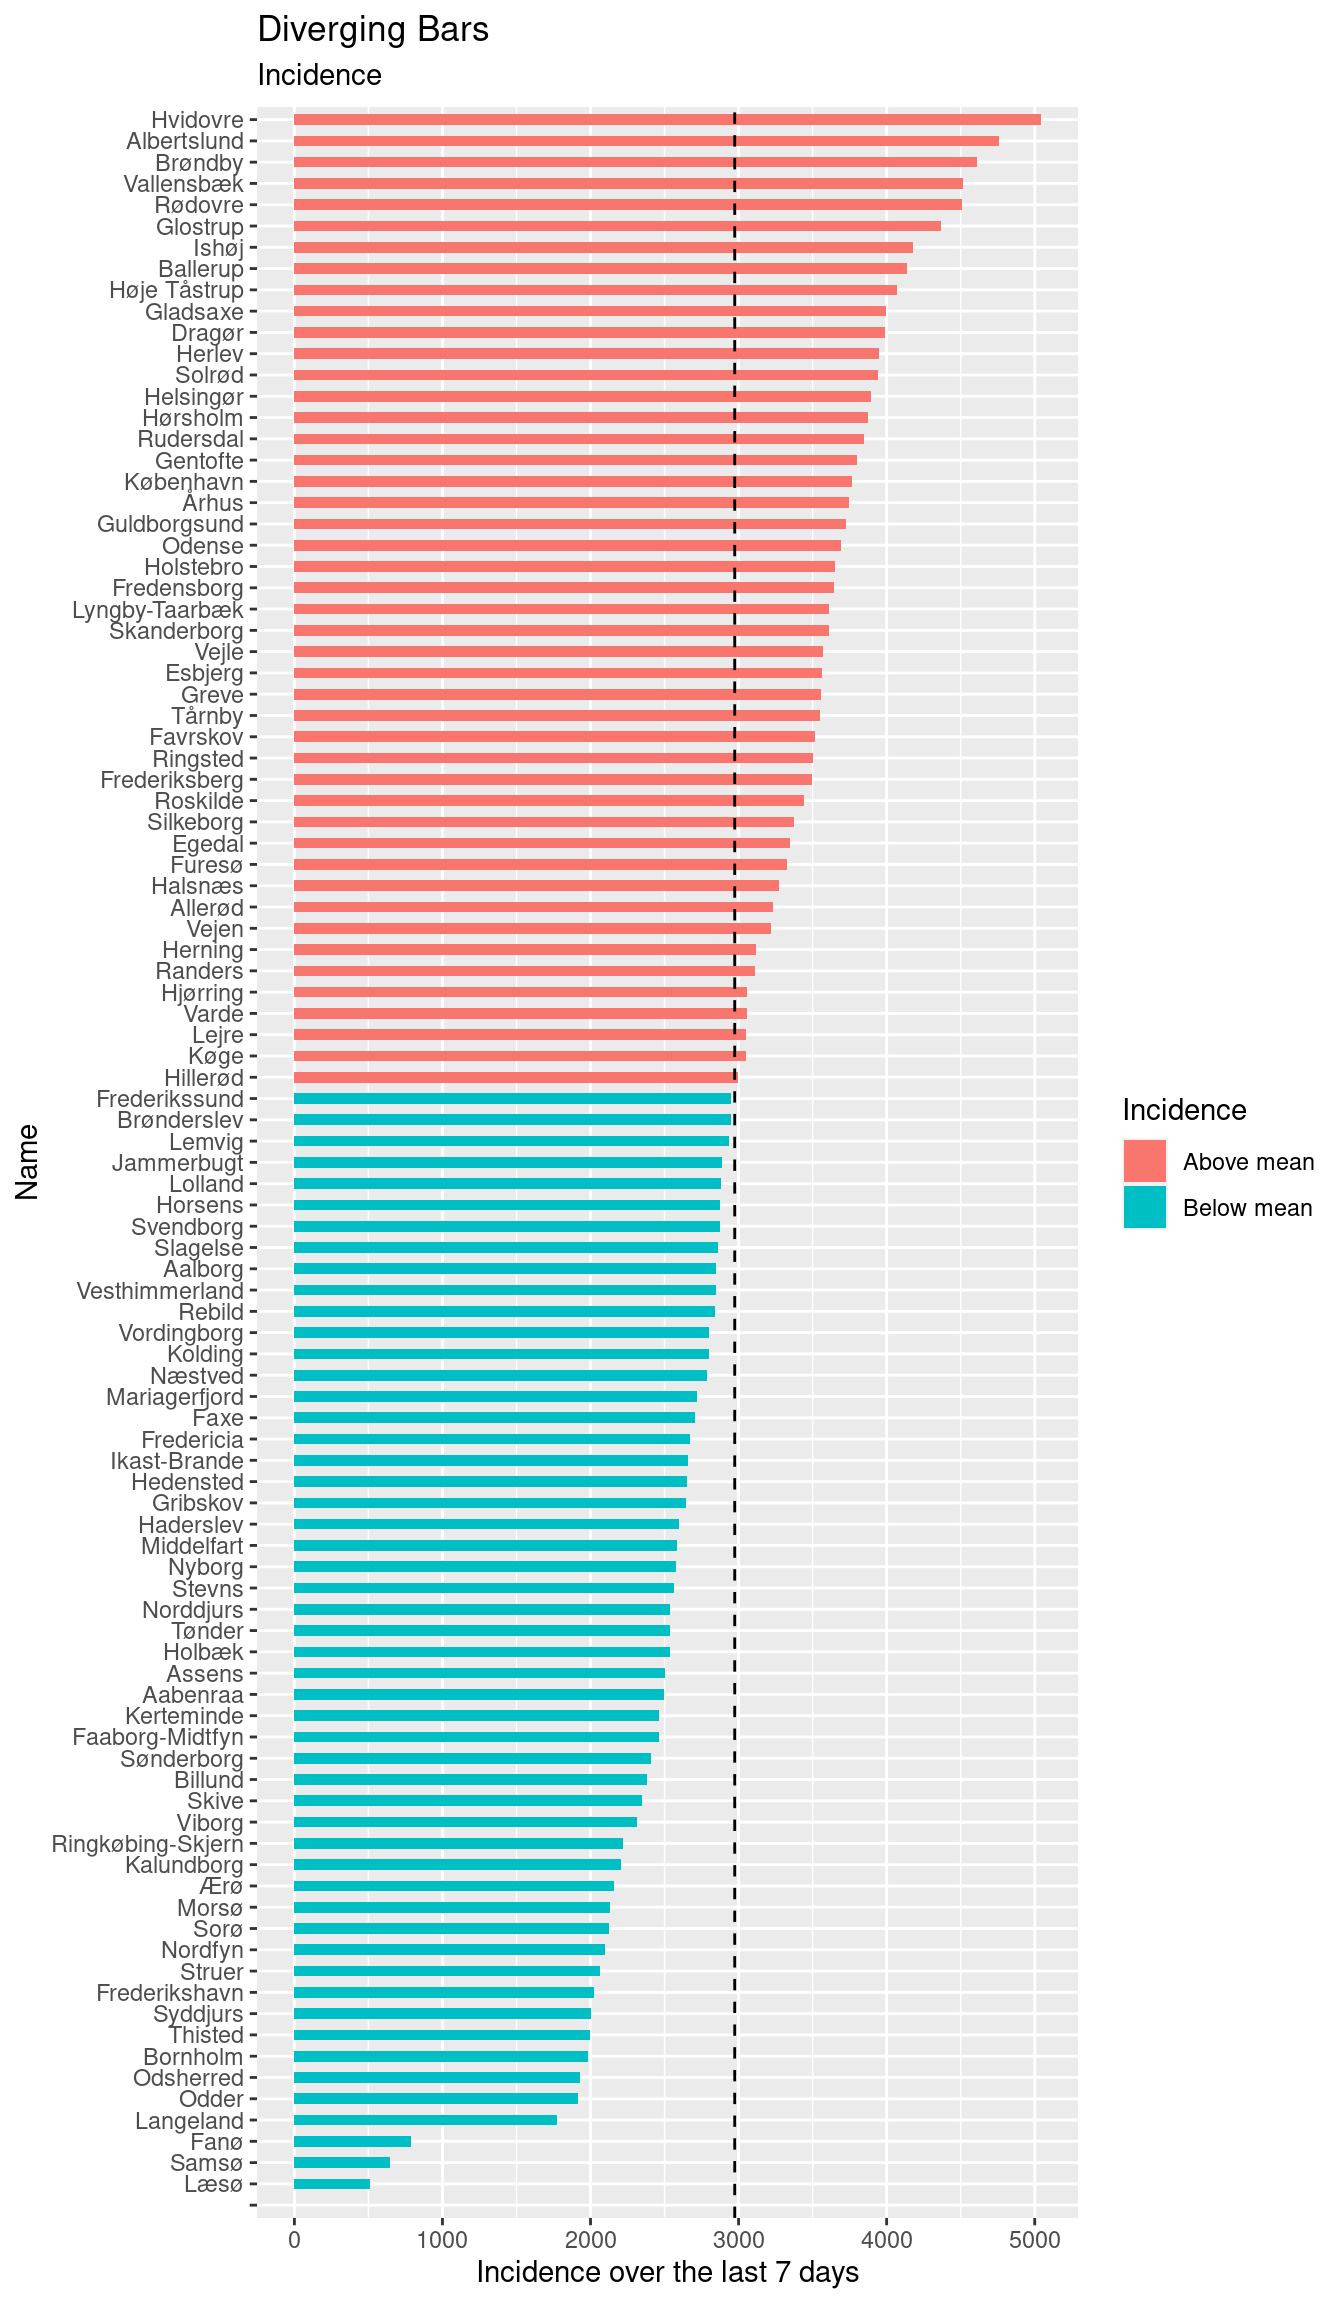
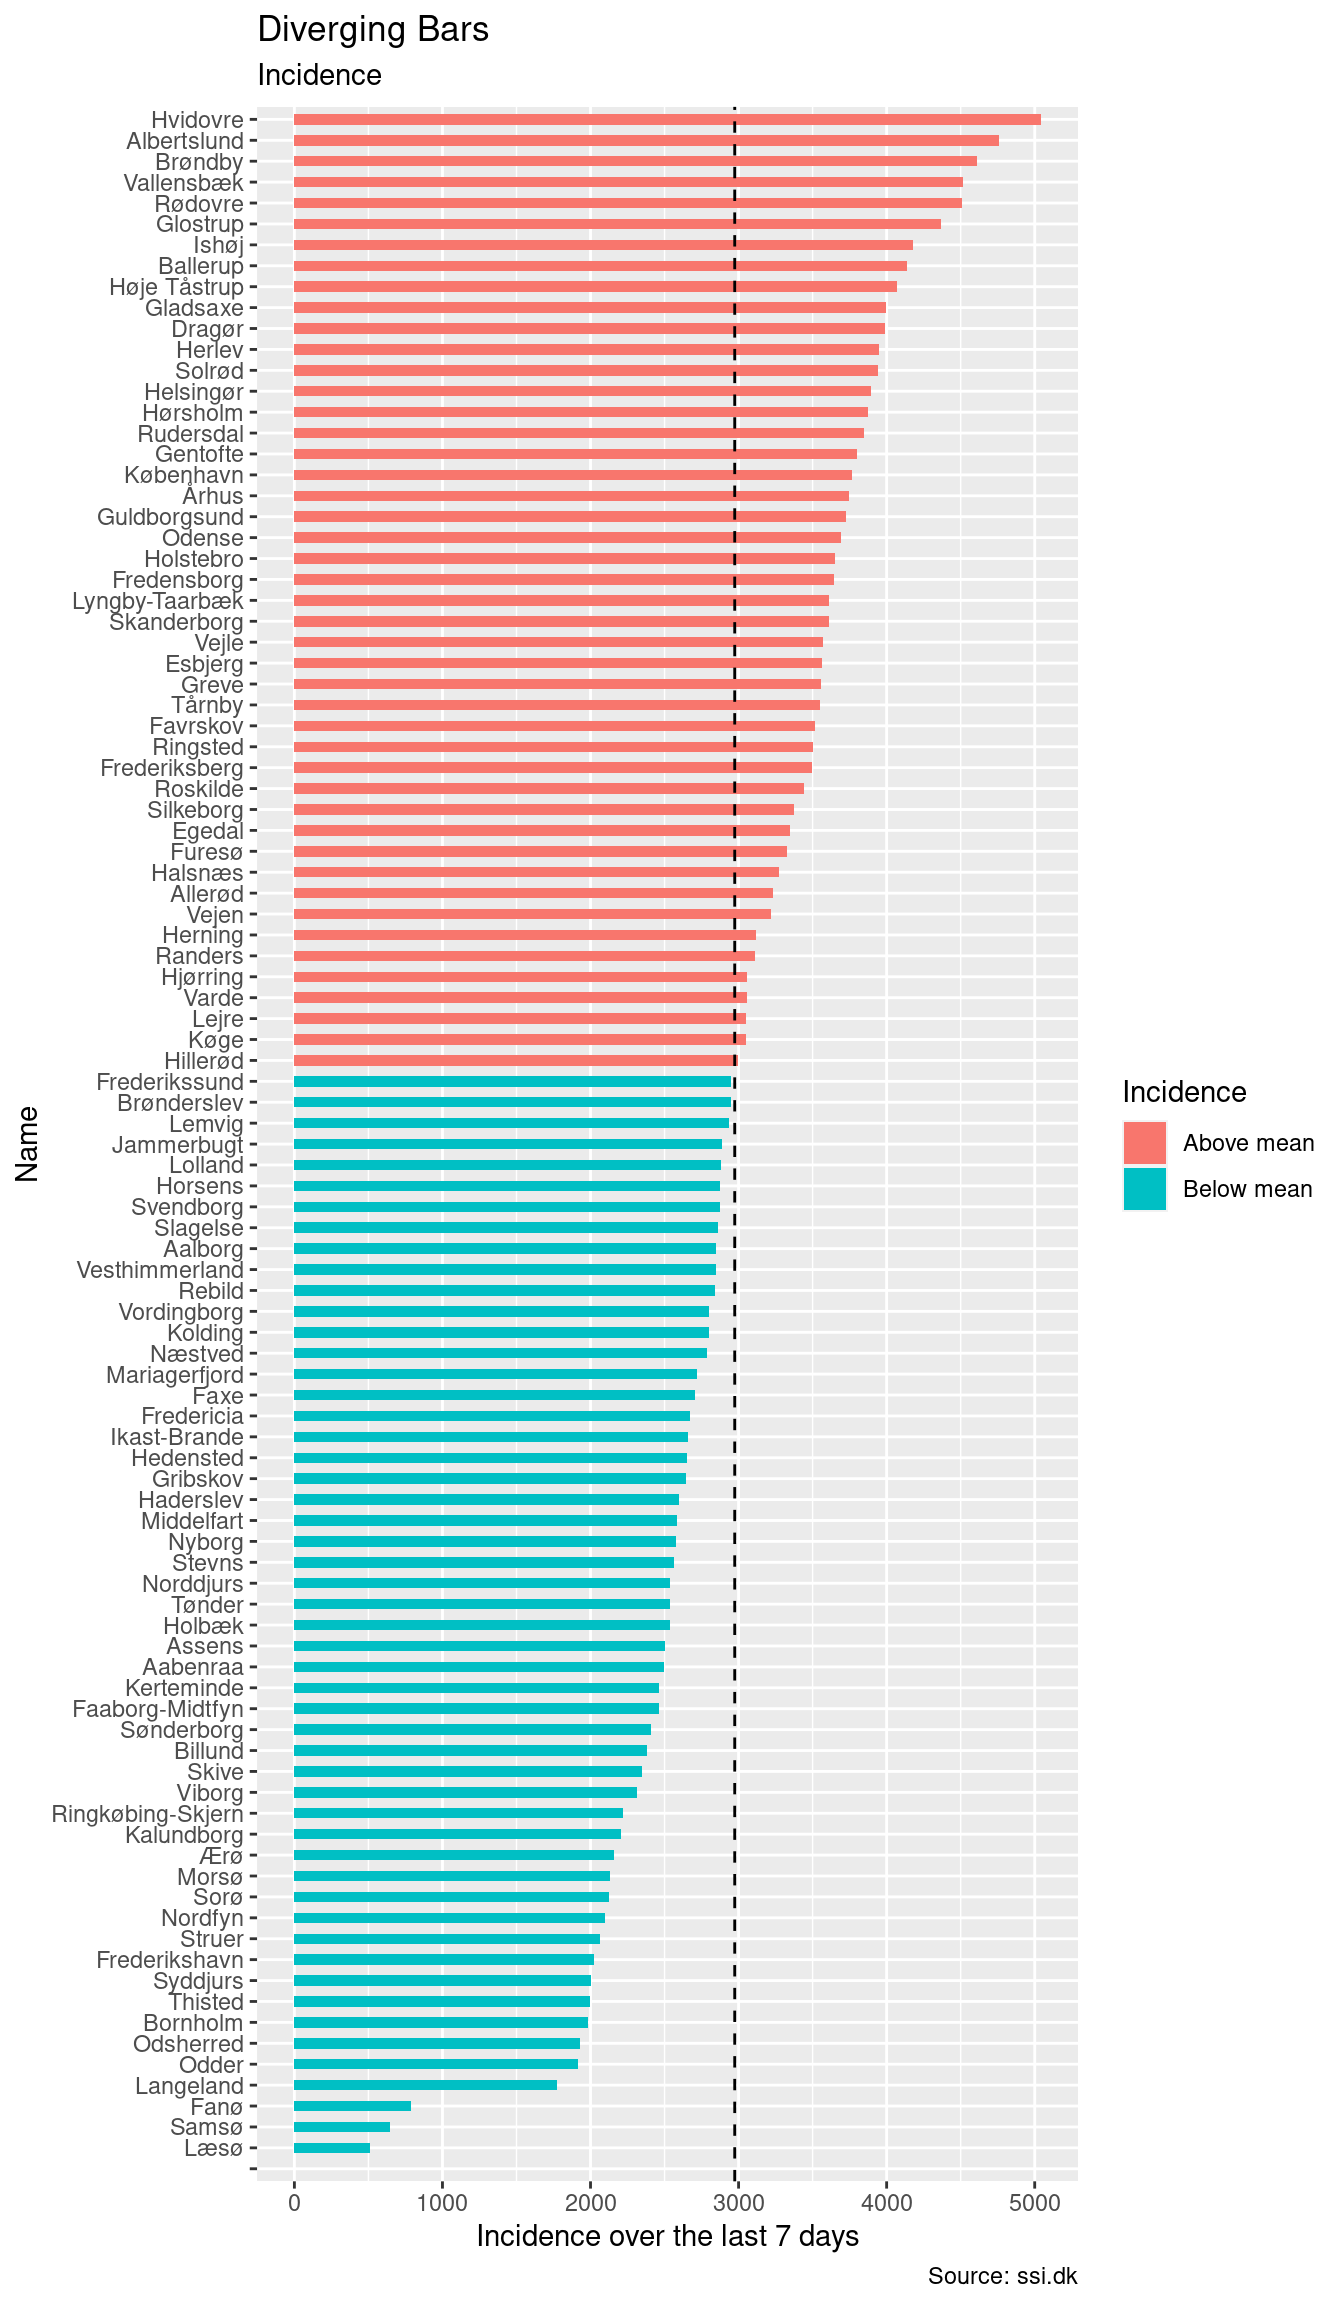
New plot: positive %

diff --git a/docs/index.html b/docs/index.html
@@ -490,24 +490,30 @@ data &lt;- data %&gt;% filter(week &gt;= lo_cutoff)</code></pre>
 <p>And like before, this needs renaming</p>
 <pre class="r"><code>data &lt;- data %&gt;% rename(lau1 = &#39;Kommune&#39;,
                         name = &#39;Kommunenavn&#39;,
-                        incidence = &#39;Incidens de seneste 7 dage&#39;)
+                        incidence = &#39;Incidens de seneste 7 dage&#39;,
+                        cases = &#39;Bekræftede tilfælde de seneste 7 dage&#39;,
+                        tested = &#39;Antal testede personer&#39;,
+                        tested_100k = &#39;Testestede pr. 100.000&#39;,
+                        tested_1w = &#39;Testede de seneste 7 dage&#39;,
+                        tested_100k_1w = &#39;Testede pr. 100.000 de seneste 7 dage&#39;,
+                        population = &#39;Antal borgere&#39;,
+                        )
 data</code></pre>
 <pre><code>## # A tibble: 99 × 11
-##     lau1 name            `Bekræftede tilf… Incidens `Bekræftede tilfæ… incidence
-##    &lt;dbl&gt; &lt;fct&gt;                       &lt;dbl&gt;    &lt;dbl&gt;              &lt;dbl&gt;     &lt;dbl&gt;
-##  1   411 &quot;&quot;                              0       NA                  0         0
-##  2   101 &quot;København&quot;                199797    31157              24138      3764
-##  3   147 &quot;Frederiksberg&quot;             29731    28812               3607      3495
-##  4   151 &quot;Ballerup&quot;                  13593    27638               2034      4136
-##  5   153 &quot;Brøndby&quot;                   11559    32434               1642      4607
-##  6   155 &quot;Dragør&quot;                     3970    27177                583      3991
-##  7   157 &quot;Gentofte&quot;                  20106    27197               2808      3798
-##  8   159 &quot;Gladsaxe&quot;                  19646    28412               2765      3999
-##  9   161 &quot;Glostrup&quot;                   6997    29879               1022      4364
-## 10   163 &quot;Herlev&quot;                     9068    31506               1137      3950
-## # … with 89 more rows, and 5 more variables: Antal testede personer &lt;dbl&gt;,
-## #   Testestede pr. 100.000 &lt;dbl&gt;, Testede de seneste 7 dage &lt;dbl&gt;,
-## #   Testede pr. 100.000 de seneste 7 dage &lt;dbl&gt;, Antal borgere &lt;dbl&gt;</code></pre>
+##     lau1 name      `Bekræftede tilf… Incidens cases incidence tested tested_100k
+##    &lt;dbl&gt; &lt;fct&gt;                 &lt;dbl&gt;    &lt;dbl&gt; &lt;dbl&gt;     &lt;dbl&gt;  &lt;dbl&gt;       &lt;dbl&gt;
+##  1   411 &quot;&quot;                        0       NA     0         0     86       94505
+##  2   101 &quot;Københa…            199797    31157 24138      3764 647124      101000
+##  3   147 &quot;Frederi…             29731    28812  3607      3495 110024      107000
+##  4   151 &quot;Balleru…             13593    27638  2034      4136  49452      101000
+##  5   153 &quot;Brøndby&quot;             11559    32434  1642      4607  35595       99879
+##  6   155 &quot;Dragør&quot;               3970    27177   583      3991  14338       98152
+##  7   157 &quot;Gentoft…             20106    27197  2808      3798  74822      101000
+##  8   159 &quot;Gladsax…             19646    28412  2765      3999  70865      102000
+##  9   161 &quot;Glostru…              6997    29879  1022      4364  24023      103000
+## 10   163 &quot;Herlev&quot;               9068    31506  1137      3950  29356      102000
+## # … with 89 more rows, and 3 more variables: tested_1w &lt;dbl&gt;,
+## #   tested_100k_1w &lt;dbl&gt;, population &lt;dbl&gt;</code></pre>
 <pre class="r"><code>muncipalities &lt;- data</code></pre>
 </div>
 </div>
@@ -602,18 +608,20 @@ plot_day_of_week(p, &quot;Some days of the week has clear over/under-representat
 <div id="regional-visualizations" class="section level3">
 <h3>Regional visualizations</h3>
 <p>To visualize the regional data, we use a facet grid, splitting on region. As we see, there are a lot of noise data generated by “Hovedstaden” (corresponding to the general area around Copenhagen). This region is generating most cases, by far.</p>
-<pre class="r"><code>plot_regions &lt;- function(p, title, caption) {
+<pre class="r"><code>plot_regions &lt;- function(p, title, subtitle) {
     p + geom_point(aes(color=region), size=.5) +
         facet_grid(rows=vars(region)) +
         scale_colour_brewer(palette=&quot;Set2&quot;) +
         labs(title = title,
-             caption = caption,
+             subtitle = subtitle,
+             caption = &quot;Source: ssi.dk&quot;,
              x = &quot;Date&quot;,
              y = &quot;Detected Cases&quot;)
 }
 
 p &lt;- ggplot(regions, aes(x=date, y=cases))
-plot_regions(p, &quot;Copenhagen-general area (Hovedstaden) contributes most of the noise&quot;, &quot;Source: ssi.dk&quot;)</code></pre>
+plot_regions(p, &quot;Regional split of cases, DK&quot;,
+                &quot;Copenhagen-general area (Hovedstaden) contributes most of the noise&quot;)</code></pre>
 <p><img src="index_files/figure-html/regional-cases-1.png" width="672" /></p>
 </div>
 </div>
@@ -626,16 +634,17 @@ plot_regions(p, &quot;Copenhagen-general area (Hovedstaden) contributes most of 
 <div id="visualizations" class="section level3">
 <h3>Visualizations</h3>
 <p>We can provide a simple raster plot, where <code>x</code> represents the week, <code>y</code> represents the (discrete) age group and the fill represents the count we are interested in. In principle, the age groups have different sizes, but we can adjust for the size difference in groups by looking at “x per 100.000”.</p>
-<pre class="r"><code>plot_age_cases &lt;- function(p, title, caption) {
+<pre class="r"><code>plot_age_cases &lt;- function(p, title, subtitle) {
     p + geom_tile() +
         scale_fill_continuous(type = &quot;viridis&quot;) +
-        labs(title = title, caption = caption, x=&quot;Week&quot;, y = &quot;Age Group&quot;)
+        labs(title = title, subtitle = subtitle, caption = &quot;Source: ssi.dk&quot;, x=&quot;Week&quot;, y = &quot;Age Group&quot;)
 }</code></pre>
+<p>The above function allows us to plot cases per age group, and tested per age group</p>
 <pre class="r"><code>p &lt;- ggplot(weekly, aes(x=week, y=ageGroup, fill=cases_100k, height=0.8))
-plot_age_cases(p, &quot;Schools were closed on 15th Dec 2021, reopened in Jan 2022&quot;, &quot;Source: ssi.dk&quot;)</code></pre>
+plot_age_cases(p, &quot;Weekly cases split per age group, DK&quot;, &quot;Schools were closed on 15th Dec 2021, reopened in Jan 2022&quot;)</code></pre>
 <p><img src="index_files/figure-html/age-group-cases-1.png" width="672" /></p>
 <pre class="r"><code>p &lt;- ggplot(weekly, aes(x=week, y=ageGroup, fill=tested_100k, height=0.8))
-plot_age_cases(p, &quot;Schools were closed on 15th Dec 2021, reopened in Jan 2022&quot;, &quot;Source: ssi.dk&quot;)</code></pre>
+plot_age_cases(p, &quot;Weekly tests split per age group, DK&quot;, &quot;Schools were closed on 15th Dec 2021, reopened in Jan 2022&quot;)</code></pre>
 <p><img src="index_files/figure-html/age-group-tests-1.png" width="672" /></p>
 </div>
 </div>
@@ -653,9 +662,44 @@ muncipalities$incidence_type &lt;- ifelse(muncipalities$incidence_z &lt; 0, &quo
        title= &quot;Diverging Bars&quot;,
        fill = &quot;Incidence&quot;,
        x = &quot;Name&quot;,
-       y = &quot;Incidence over the last 7 days&quot;) +
+       y = &quot;Incidence over the last 7 days&quot;,
+       caption = &quot;Source: ssi.dk&quot;) +
   coord_flip()</code></pre>
 <p><img src="index_files/figure-html/muncipality-incidence-overview-1.png" width="672" /></p>
+<p>More computation allows us to do the same for cases per test</p>
+<pre class="r"><code>muncipalities$rate &lt;- muncipalities$cases / muncipalities$tested_1w
+muncipalities$rate_z &lt;- round(muncipalities$rate - mean(muncipalities$rate), 2)
+muncipalities$rate_type &lt;- ifelse(muncipalities$rate_z &lt; 0, &quot;Below mean&quot;, &quot;Above mean&quot;)
+muncipalities$rate</code></pre>
+<pre><code>##  [1] 0.00000000 0.21524304 0.21742013 0.19753326 0.22585970 0.19465776
+##  [7] 0.21387768 0.20660539 0.21661721 0.19773913 0.22701299 0.21859440
+## [13] 0.18773980 0.20729883 0.22359578 0.19815763 0.18143662 0.21808042
+## [19] 0.18580122 0.17030390 0.19930860 0.19890808 0.14387645 0.23570020
+## [25] 0.21770122 0.17243783 0.17412099 0.17680478 0.16672595 0.17826087
+## [31] 0.18062243 0.17763033 0.15288326 0.13978733 0.16956003 0.15851735
+## [37] 0.17405529 0.19783941 0.16583978 0.16142896 0.14865811 0.17420000
+## [43] 0.11818368 0.14609350 0.16152960 0.17017850 0.09037464 0.13589267
+## [49] 0.14469590 0.15096575 0.13334838 0.12260650 0.16962269 0.13732622
+## [55] 0.14331723 0.11105451 0.12003693 0.14452496 0.13072165 0.11482727
+## [61] 0.13666325 0.18921406 0.06801008 0.18854089 0.18365707 0.11902050
+## [67] 0.15263450 0.15109034 0.15996573 0.14564173 0.16251830 0.15720492
+## [73] 0.15849582 0.11976549 0.15376477 0.16925578 0.18695652 0.12426860
+## [79] 0.18972332 0.18150609 0.09375000 0.17533253 0.21390228 0.15323026
+## [85] 0.14155977 0.15170655 0.13461538 0.14541202 0.14326170 0.14645009
+## [91] 0.17835034 0.13583485 0.16102884 0.03829787 0.16737125 0.15655306
+## [97] 0.15730819 0.17182121 0.18068161</code></pre>
+<pre class="r"><code>ggplot(muncipalities %&gt;% mutate(name = fct_reorder(name, rate)), aes(x=name, y=rate)) +
+  geom_bar(stat=&#39;identity&#39;, aes(fill=rate_type), width=.5)  +
+  scale_colour_brewer(palette=&quot;Set2&quot;) +
+  geom_hline(yintercept=mean(muncipalities$rate), linetype=2) +
+  labs(title= &quot;Diverging Bars Plot, DK&quot;,
+       subtitle = &quot;Cases/Tested ratio over the last 7 days&quot;,
+       fill = &quot;rate&quot;,
+       x = &quot;Name&quot;,
+       y = &quot;Rate&quot;,
+       caption = &quot;Source: ssi.dk&quot;) +
+  coord_flip()</code></pre>
+<p><img src="index_files/figure-html/muncipality-rate-overview-1.png" width="672" /></p>
 </div>
 
 
